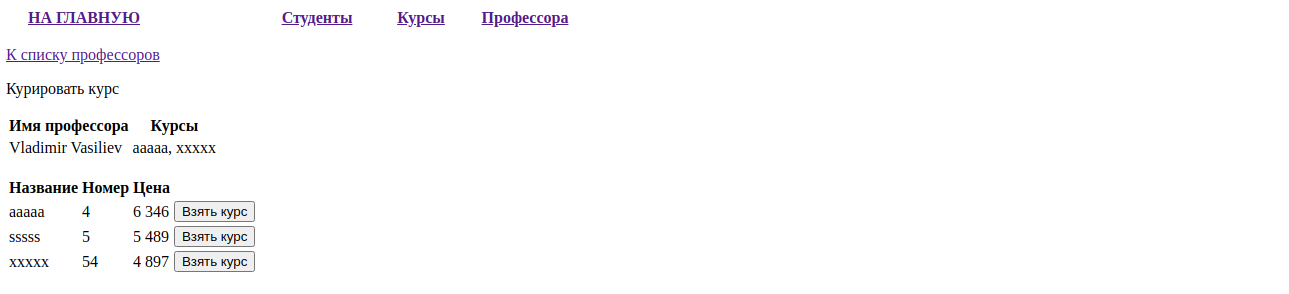
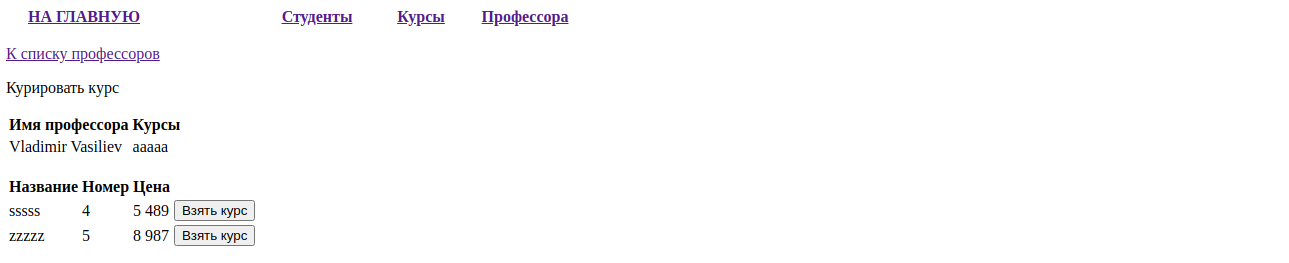
Итоговая версия проекта
Добавлена выгрузка в xlsx файл, возможность просмотра доступных курсов

diff --git a/src/main/java/com/example/coursemodel/Course.java b/src/main/java/com/example/coursemodel/Course.java
@@ -5,6 +5,7 @@ import com.example.coursemodel.repos.StudentRepo;
 import org.springframework.beans.factory.annotation.Autowired;
 
 import javax.persistence.*;
+import java.util.LinkedHashSet;
 import java.util.Set;
 
 @Entity
@@ -42,6 +43,36 @@ public class Course {
         this.price = price;
     }
 
+    public Iterable<Professor> signUpProfessor(Iterable<Professor> allProfessor) {
+        Set<Professor> signUpProfessor = new LinkedHashSet<>();
+        if (allProfessor != null) {
+            for (Professor c : allProfessor) {
+                if (!professors.contains(c)) {
+                    signUpProfessor.add(c);
+                }
+            }
+        }
+        return signUpProfessor;
+    }
+
+    public Set<Professor> getListOfListedProfessors() {
+        return getProfessors();
+    }
+    public Iterable<Student> signUpStudent(Iterable<Student> allStudent) {
+        Set<Student> signUpStudent = new LinkedHashSet<>();
+        if (allStudent != null) {
+            for (Student c : allStudent) {
+                if (!students.contains(c)) {
+                    signUpStudent.add(c);
+                }
+            }
+        }
+        return signUpStudent;
+    }
+
+    public Set<Student> getListOfListedStudents() {
+        return getStudents();
+    }
     public void addStudent(Student student, Course course, PassingCourse passingCourse) {
         student.setPassingCourses(passingCourse);
         course.setPassingCourse(passingCourse);

diff --git a/src/main/java/com/example/coursemodel/Student.java b/src/main/java/com/example/coursemodel/Student.java
@@ -1,6 +1,7 @@
 package com.example.coursemodel;
 
 import javax.persistence.*;
+import java.util.LinkedHashSet;
 import java.util.Set;
 
 @Entity
@@ -33,11 +34,21 @@ public class Student {
         this.countingNum = countingNum;
     }
 
-    public void maybeSignUp() {
-
+    public Iterable<Course> maybeSignUp(Iterable<Course> allCourses) {
+        Set<Course> maybeSignUpCourse = new LinkedHashSet<>();
+        if (allCourses != null) {
+            for (Course c : allCourses) {
+                if (!courses.contains(c)) {
+                    maybeSignUpCourse.add(c);
+                }
+            }
+        }
+        return maybeSignUpCourse;
     }
 
-    public void getListOfListedCourses() {}
+    public Set<Course> getListOfListedCourses() {
+        return getCourses();
+    }
 
     public Set<PassingCourse> getPassingCourses() {
         return passingCourses;

diff --git a/src/main/java/com/example/coursemodel/Professor.java b/src/main/java/com/example/coursemodel/Professor.java
@@ -4,6 +4,7 @@ import com.example.coursemodel.service.PassingCourseService;
 import org.springframework.beans.factory.annotation.Autowired;
 
 import javax.persistence.*;
+import java.util.LinkedHashSet;
 import java.util.Objects;
 import java.util.Set;
 
@@ -32,6 +33,21 @@ public class Professor {
         this.payment = payment;
     }
 
+    public Iterable<Course> signUpCourse(Iterable<Course> allCourses) {
+        Set<Course> signUpCourse = new LinkedHashSet<>();
+        if (allCourses != null) {
+            for (Course c : allCourses) {
+                if (!courses.contains(c)) {
+                    signUpCourse.add(c);
+                }
+            }
+        }
+        return signUpCourse;
+    }
+
+    public Set<Course> getListOfListedCourses() {
+        return getCourses();
+    }
     public Integer totalNumberOfStudents() {
 
         int result = 0;

diff --git a/src/main/java/com/example/coursemodel/controller/StudentController.java b/src/main/java/com/example/coursemodel/controller/StudentController.java
@@ -73,7 +73,7 @@ public class StudentController {
 
     @GetMapping("edit/studentEdit/{studentId}")
     public String userEditForm(Model model, @PathVariable Integer studentId) {
-        model.addAttribute("student", studentRepo.getById(studentId));
+        model.addAttribute("student", studentService.getById(studentId));
         model.addAttribute("courses", courseRepo.findAll());
         return "edit/studentEdit";
     }

diff --git a/README.md b/README.md
@@ -40,8 +40,8 @@
 ![](Readme_image/08.png)
 ![](Readme_image/09.png)
 
-Там же профессор может проверить работы студентов на своих курсах, посмотреть общее количество студентов на всех курсах 
-и среднюю успеваемость по всем курсам:
+Там же профессор может проверить работы студентов на своих курсах, посмотреть общее количество студентов на всех курсах, 
+среднюю успеваемость по всем курсам и выгрузить эту информацию в файл xlsx:
 ![](Readme_image/10.png)
 ![](Readme_image/11.png)
 
